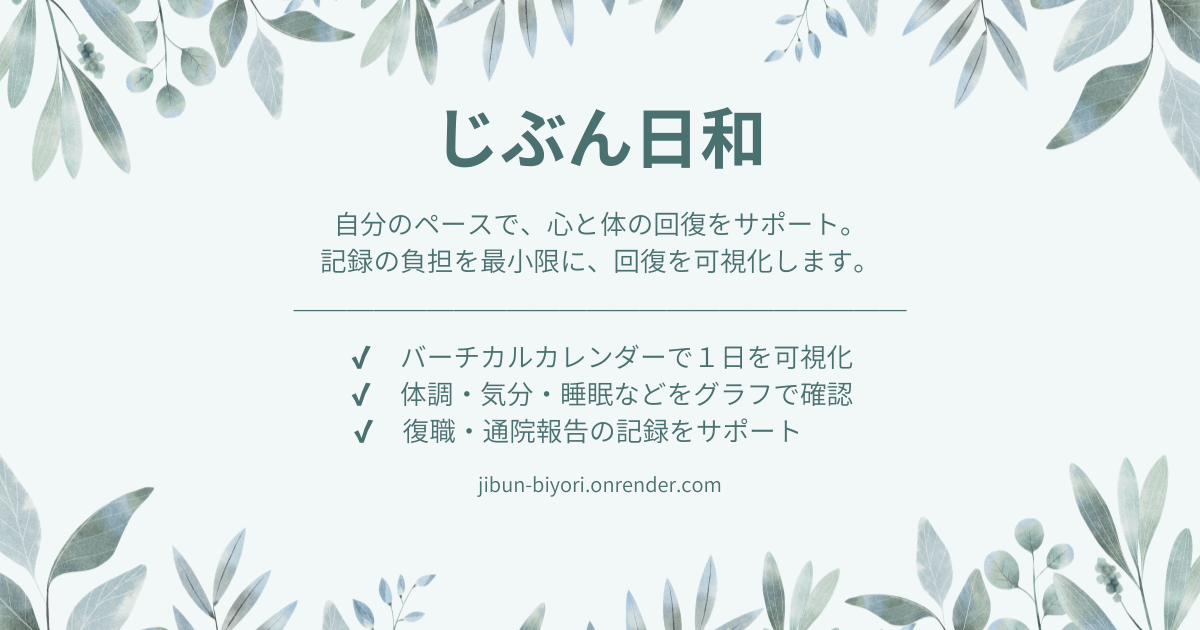
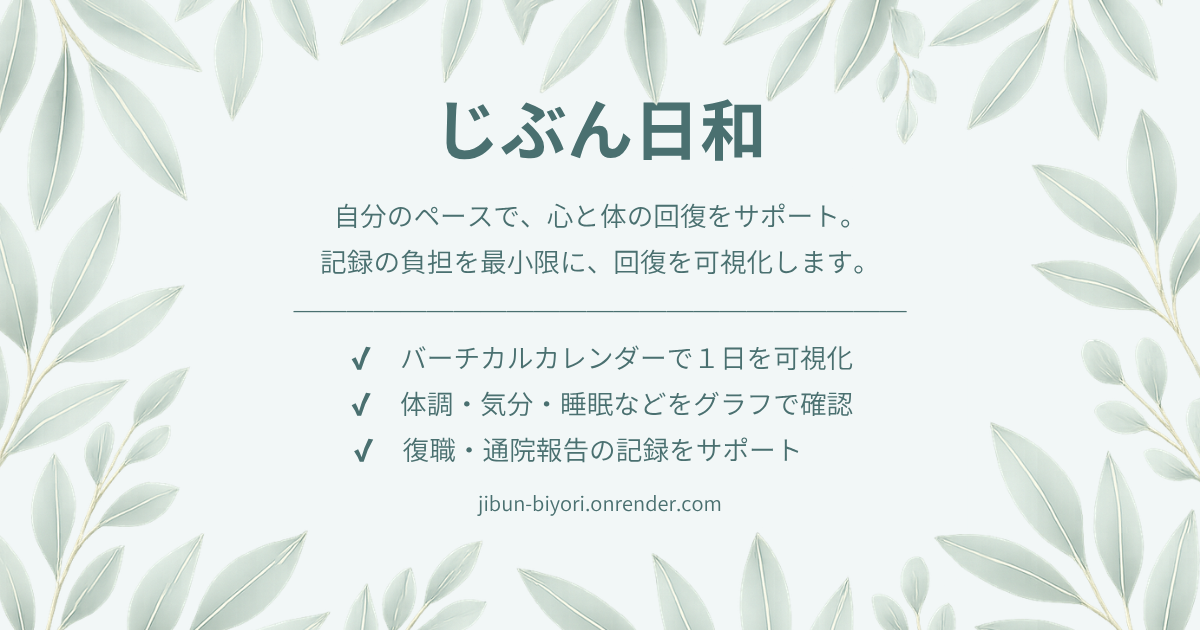
docs:OGP画像変更

diff --git a/README.md b/README.md
@@ -1,6 +1,6 @@
-![じぶん日和](https://i.gyazo.com/0c3b3850622e0110cdebbbe00467f078.png)
+![じぶん日和](https://i.gyazo.com/bf41f3b26110070f9446a52c20814921.png)
 
-![URL](https://jibun-biyori.onrender.com)
+じぶん日和：https://jibun-biyori.onrender.com
 
 ## サービス概要
 日々の体調管理を行いたい方、復職を目指す方のためのWebアプリケーションです。
